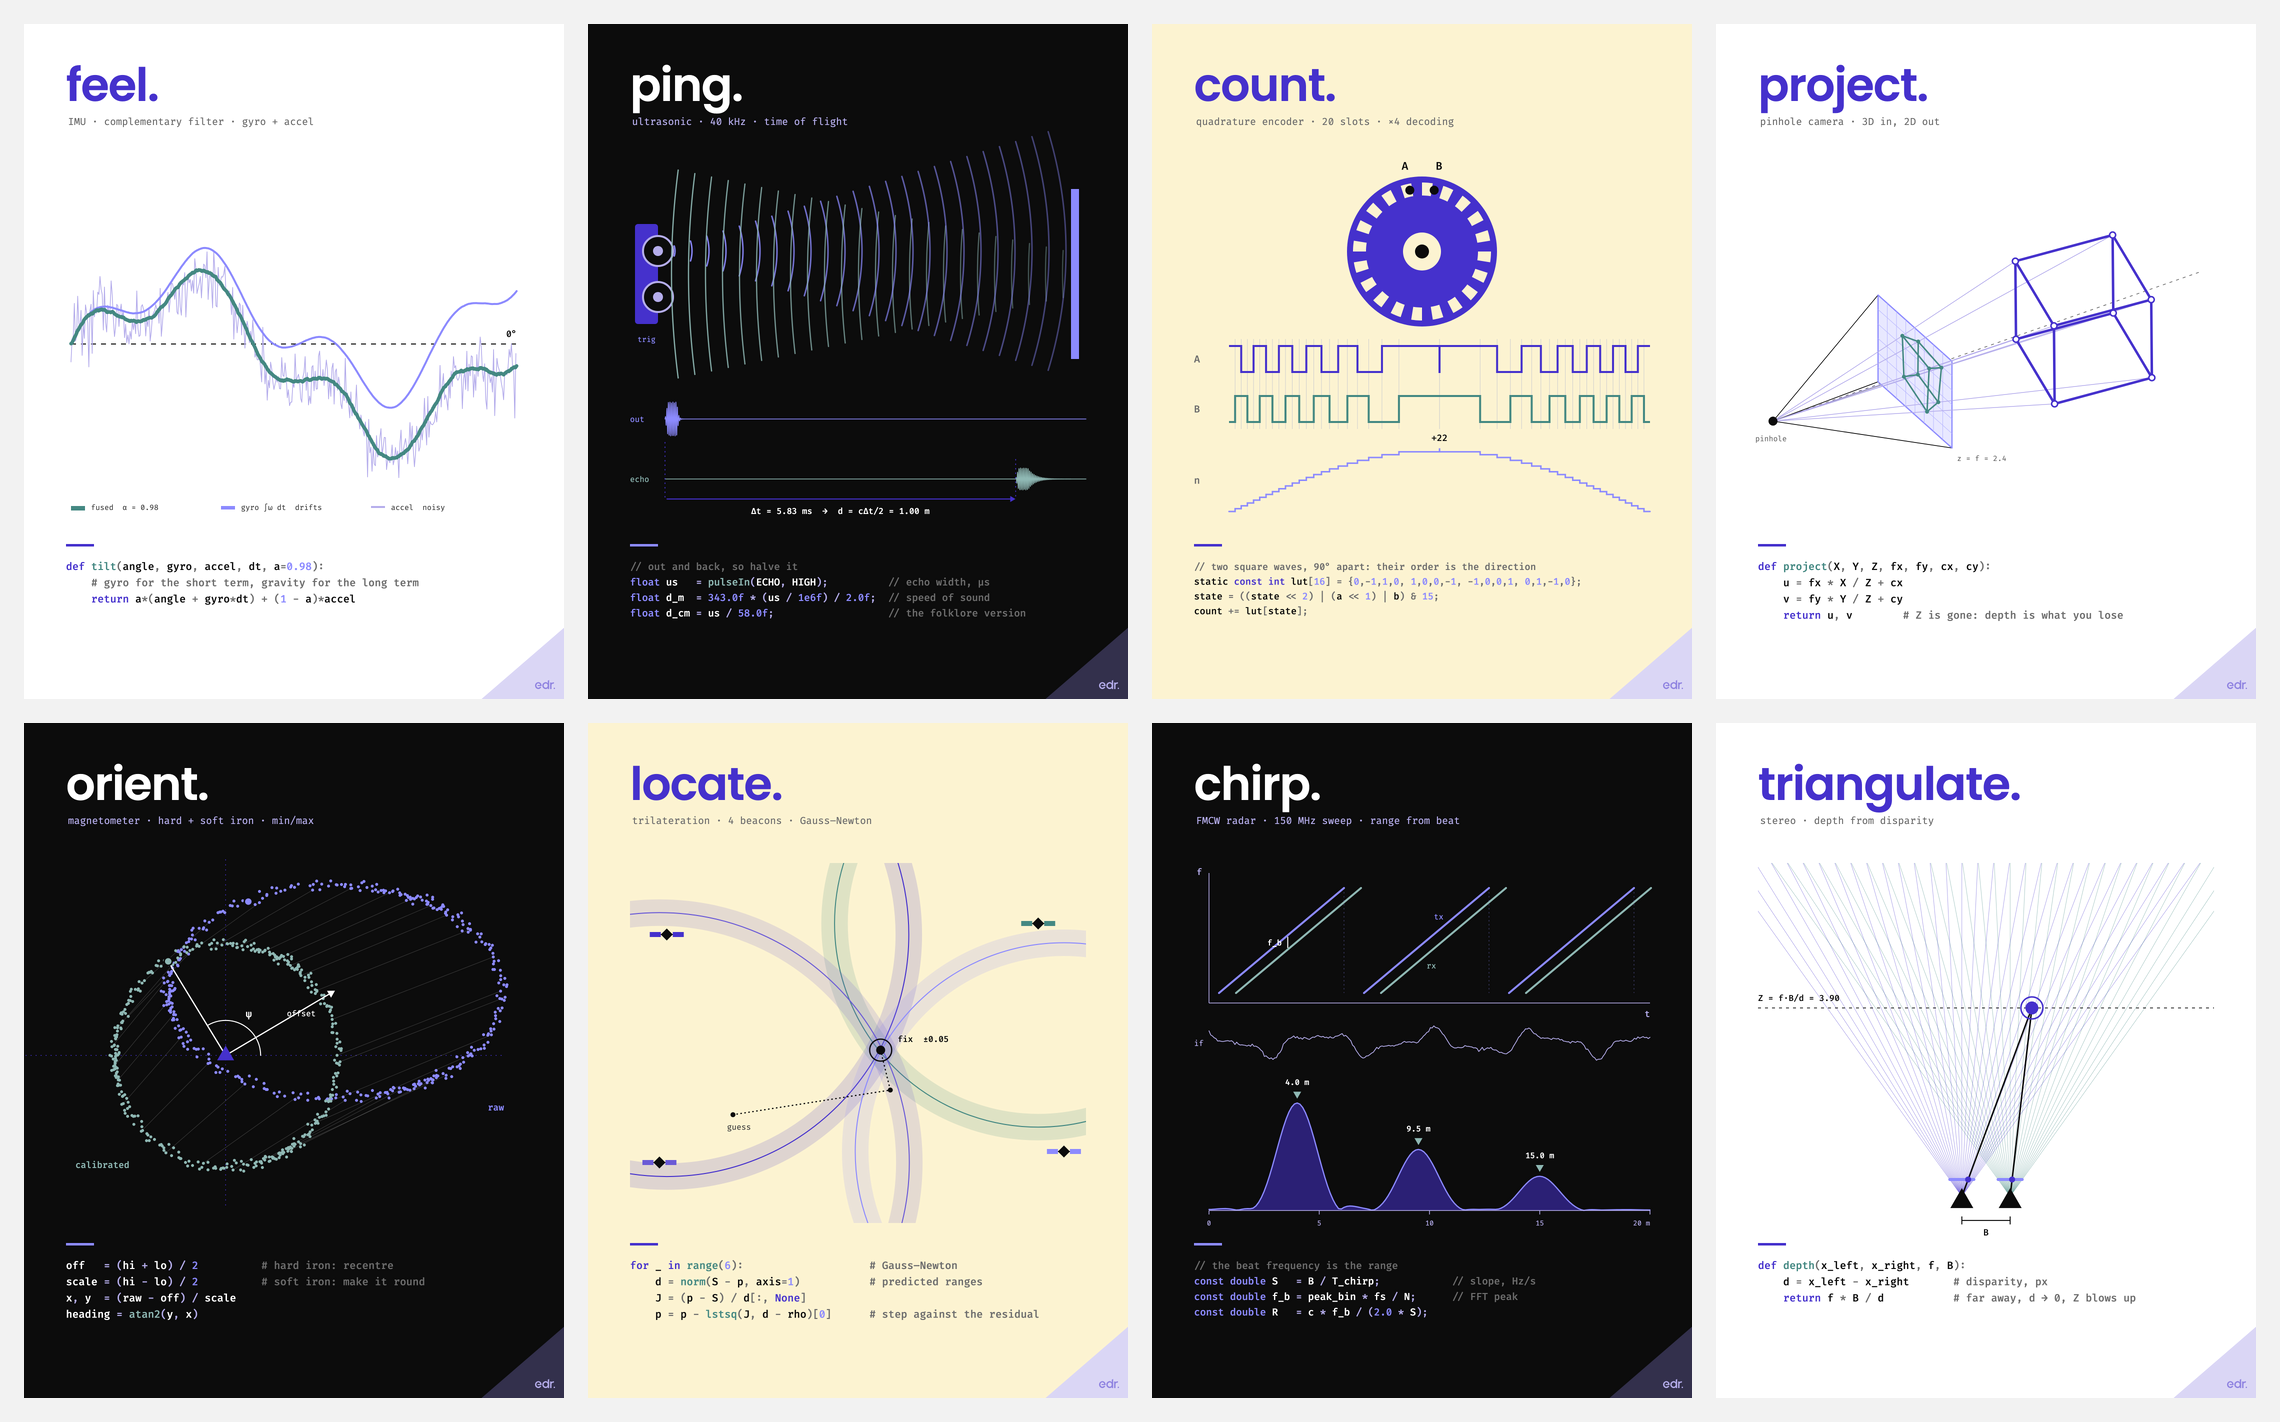
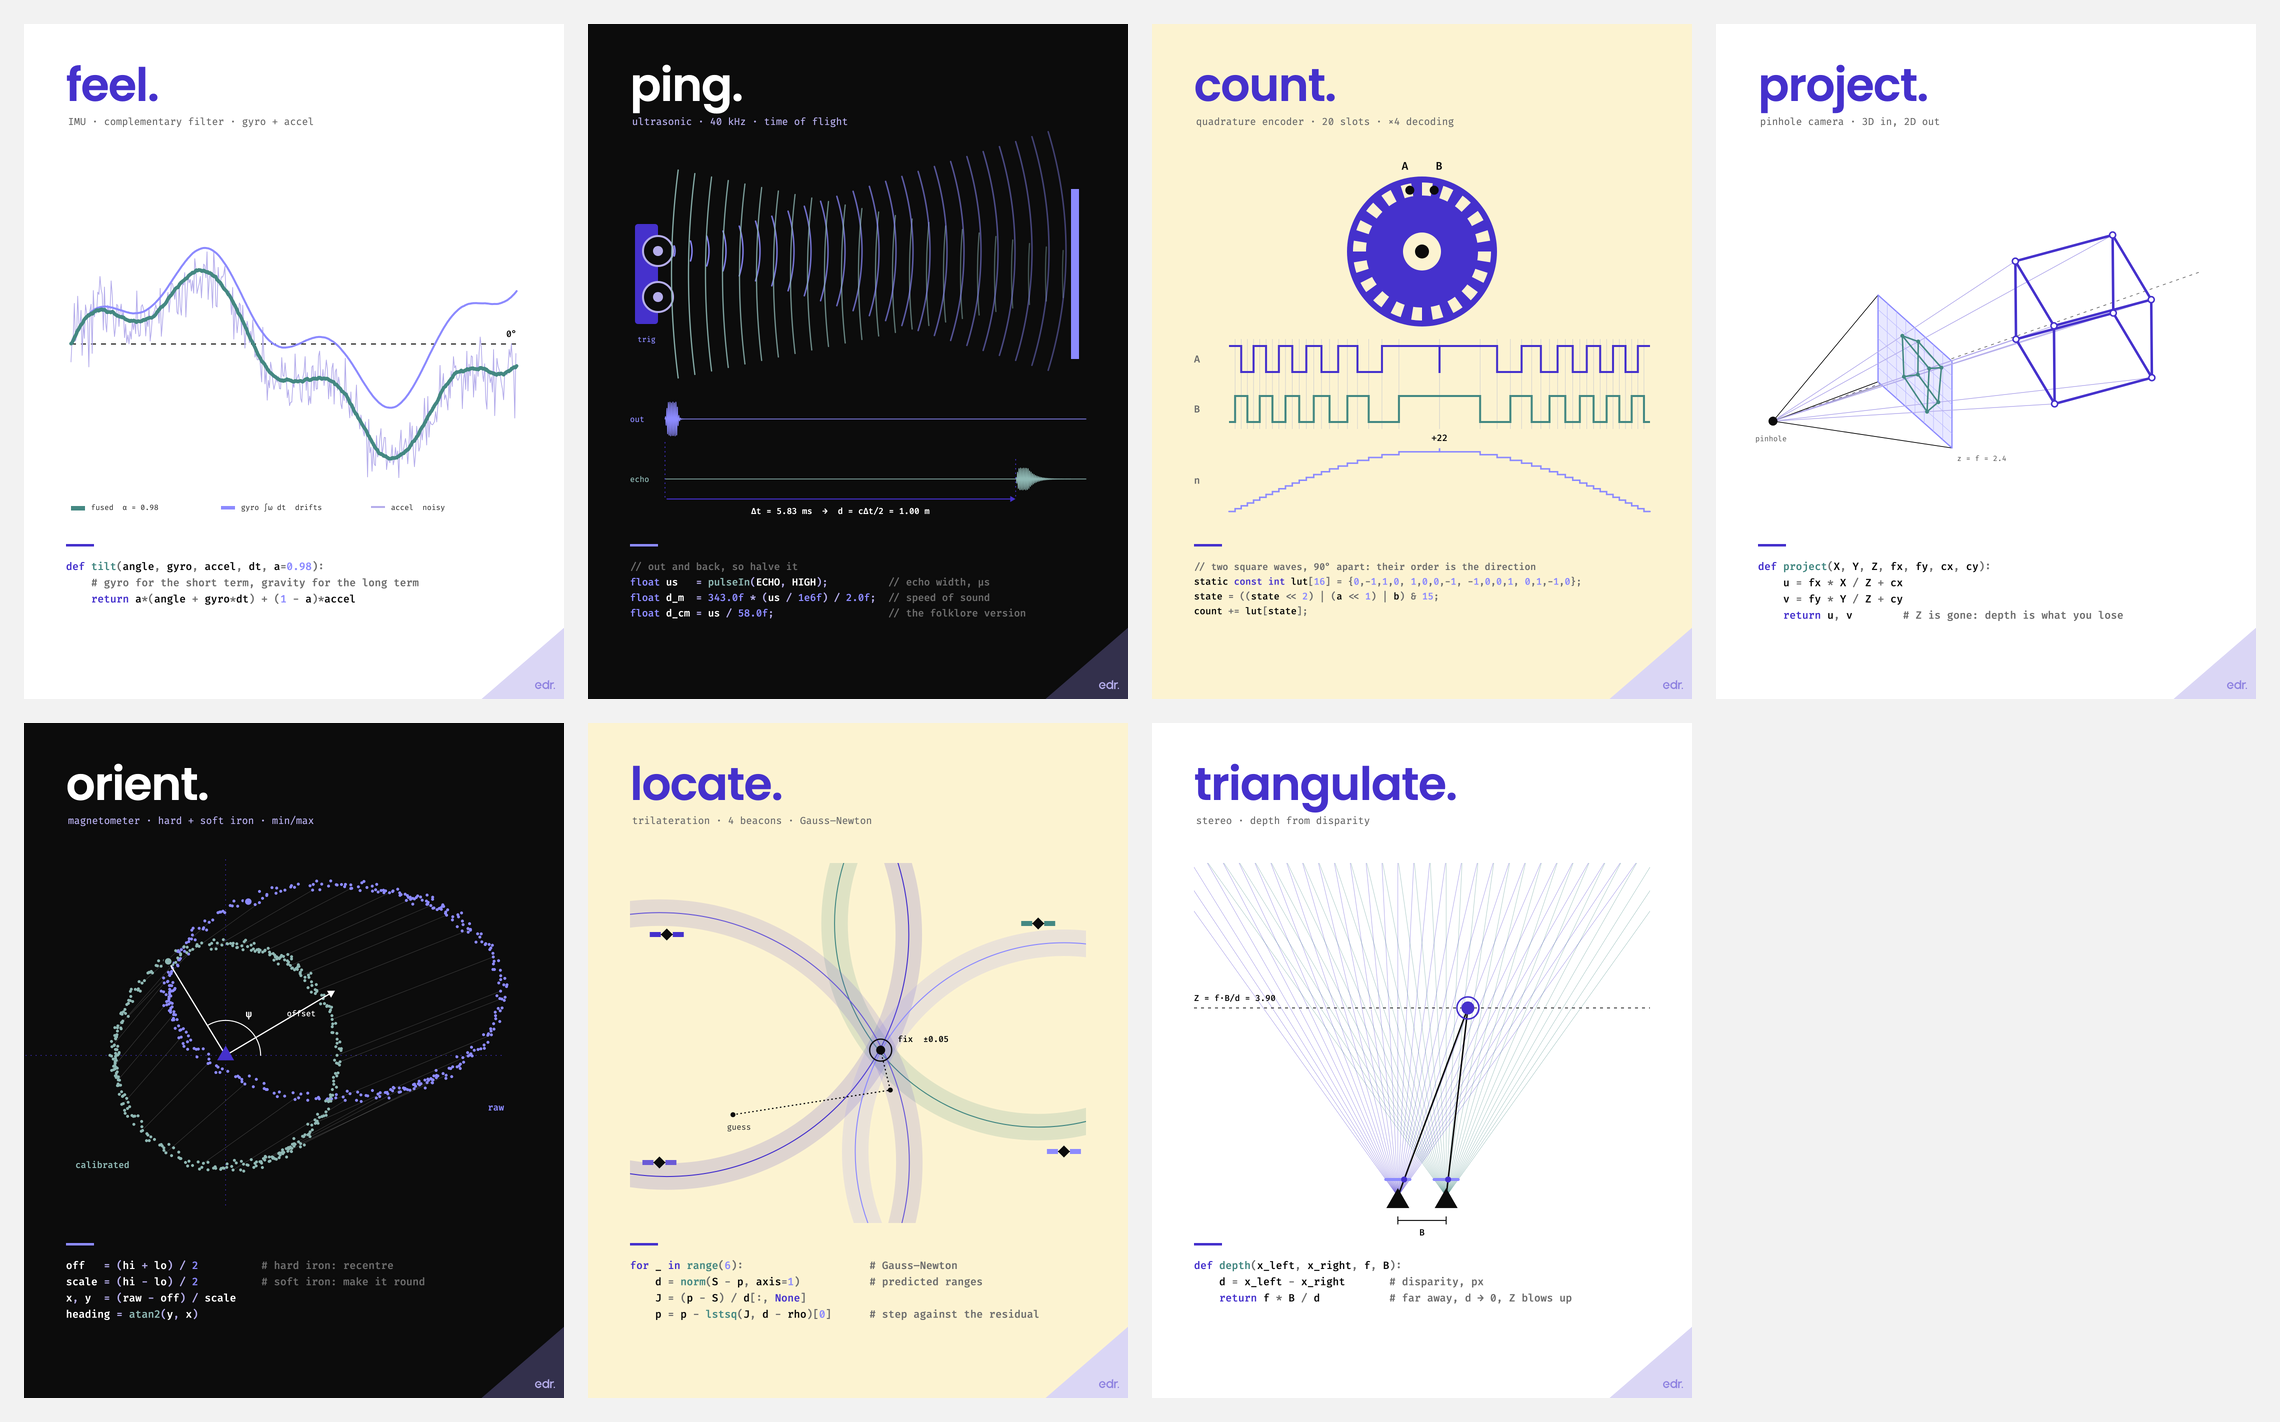
Remove chirp sensor poster, sync gallery
Drop the FMCW radar chirp poster from sensors, regenerate the
sensors overview, and update the gallery index (carve added,
hello moved to minimal, grid removed).

diff --git a/gallery/posters.js b/gallery/posters.js
@@ -31,16 +31,6 @@ window.POSTERS = [
   "svg": "../out/core/settle.svg"
  },
  {
-  "id": "core/hello",
-  "name": "hello",
-  "series": "core",
-  "group": "",
-  "idea": "Python vs C++ on a brand diagonal",
-  "thumb": "thumbs/core/hello.jpg",
-  "png": "../out/core/hello.png",
-  "svg": "../out/core/hello.svg"
- },
- {
   "id": "core/drive",
   "name": "drive",
   "series": "core",
@@ -79,6 +69,26 @@ window.POSTERS = [
   "thumb": "thumbs/core/assemble.jpg",
   "png": "../out/core/assemble.png",
   "svg": "../out/core/assemble.svg"
+ },
+ {
+  "id": "core/carve",
+  "name": "carve",
+  "series": "core",
+  "group": "",
+  "idea": "",
+  "thumb": "thumbs/core/carve.jpg",
+  "png": "../out/core/carve.png",
+  "svg": "../out/core/carve.svg"
+ },
+ {
+  "id": "minimal/hello",
+  "name": "hello",
+  "series": "minimal",
+  "group": "",
+  "idea": "Python vs C++ on a brand diagonal",
+  "thumb": "thumbs/minimal/hello.jpg",
+  "png": "../out/minimal/hello.png",
+  "svg": "../out/minimal/hello.svg"
  },
  {
   "id": "minimal/boot",
@@ -179,16 +189,6 @@ window.POSTERS = [
   "thumb": "thumbs/minimal/rotate.jpg",
   "png": "../out/minimal/rotate.png",
   "svg": "../out/minimal/rotate.svg"
- },
- {
-  "id": "minimal/grid",
-  "name": "grid",
-  "series": "minimal",
-  "group": "",
-  "idea": "an 8 × 8 occupancy grid: dots are free, squares are not, one robot",
-  "thumb": "thumbs/minimal/grid.jpg",
-  "png": "../out/minimal/grid.png",
-  "svg": "../out/minimal/grid.svg"
  },
  {
   "id": "minimal/think",
@@ -299,16 +299,6 @@ window.POSTERS = [
   "thumb": "thumbs/sensors/locate.jpg",
   "png": "../out/sensors/locate.png",
   "svg": "../out/sensors/locate.svg"
- },
- {
-  "id": "sensors/chirp",
-  "name": "chirp",
-  "series": "sensors",
-  "group": "",
-  "idea": "chirp + echo, the beat signal, and the FFT that turns it into ranges",
-  "thumb": "thumbs/sensors/chirp.jpg",
-  "png": "../out/sensors/chirp.png",
-  "svg": "../out/sensors/chirp.svg"
  },
  {
   "id": "sensors/triangulate",

diff --git a/src/sensors.py b/src/sensors.py
@@ -418,88 +418,6 @@ for _ in range(6):                    # Gauss–Newton
 
 
 # ----------------------------------------------------------------------------
-def chirp() -> Svg:
-    """FMCW radar: a chirp and its echo, the beat signal between them, and the FFT that turns it into ranges."""
-    svg = Svg(P.black)
-    rng = random.Random(2)
-    c0, B, Tc, N = 3e8, 150e6, 50e-6, 256
-    S = B / Tc
-    fs = N / Tc
-    targets = [(4.0, 1.0), (9.5, 0.55), (15.0, 0.32)]  # (range m, amplitude)
-    x = []
-    for n in range(N):
-        t = n / fs
-        v = sum(a * math.cos(2 * math.pi * (2 * R * S / c0) * t + i) for i, (R, a) in enumerate(targets))
-        x.append(v + rng.gauss(0, 0.08))
-
-    # --- schematic: frequency against time, echo delayed by τ (exaggerated) ---
-    x0, x1, yb, yt = M + 30, W - M, 540, 330
-    svg.line(x0, yb + 20, x1, yb + 20, P.blue_40, 1.5)
-    svg.line(x0, yb + 20, x0, yt - 30, P.blue_40, 1.5)
-    svg.text(x0 - 14, yt - 26, "f", "code", 18, P.blue_40, "end")
-    svg.text(x1, yb + 48, "t", "code", 18, P.blue_40, "end")
-    period, ramp, tau = 290, 250, 34
-    for k in range(3):
-        xs = x0 + 20 + k * period
-        svg.line(xs, yb, xs + ramp, yt, P.lavender, 4, stroke_linecap="round")
-        svg.line(xs + tau, yb, xs + tau + ramp, yt, P.teal_60, 4, stroke_linecap="round")
-        svg.line(xs + ramp, yt, xs + ramp, yb, P.lavender, 1.2, opacity="0.4", stroke_dasharray="3 5")
-    xm = x0 + 20 + ramp * 0.55
-    y_tx = yb + (yt - yb) * 0.55
-    y_rx = yb + (yt - yb) * (ramp * 0.55 - tau) / ramp
-    svg.line(xm, y_tx + 3, xm, y_rx - 3, P.white, 2)
-    svg.text(xm - 12, (y_tx + y_rx) / 2 + 6, "f_b", "code", 16, P.white, "end")
-    xs2 = x0 + 20 + period
-    svg.text(xs2 + ramp * 0.7 - 16, yb + (yt - yb) * 0.7, "tx", "codel", 16, P.lavender, "end")
-    svg.text(xs2 + tau + ramp * 0.3 + 16, yb + (yt - yb) * 0.3 + 14, "rx", "codel", 16, P.teal_60)
-
-    # --- the beat (IF) signal, as sampled ---
-    yi = 640
-    svg.text(M, yi + 6, "if", "codel", 16, P.blue_40)
-    svg.polyline([(x0 + (x1 - x0) * n / (N - 1), yi - 18 * v) for n, v in enumerate(x)], P.blue_40, 1.6)
-
-    # --- spectrum: Hann window, zero-padded DFT, range axis ---
-    w = [0.5 - 0.5 * math.cos(2 * math.pi * n / (N - 1)) for n in range(N)]
-    pad = 8
-    Rmax = 20.0
-    kmax = int(Rmax * 2 * S / c0 / (fs / (N * pad))) + 1
-    spec = []
-    for k in range(kmax + 1):
-        acc = sum(w[n] * x[n] * cmath.exp(-2j * math.pi * k * n / (N * pad)) for n in range(N))
-        fb = k * fs / (N * pad)
-        spec.append((c0 * fb / (2 * S), abs(acc)))
-    mx = max(m for _, m in spec)
-    y0s, y1s = 975, 760
-
-    def sp(R, m):
-        return x0 + (x1 - x0) * R / Rmax, y0s + (y1s - y0s) * m / mx
-
-    area = [sp(0, 0)] + [sp(R, m) for R, m in spec if R <= Rmax] + [sp(min(Rmax, spec[-1][0]), 0)]
-    svg.poly(area, P.blue, opacity="0.55")
-    svg.polyline([sp(R, m) for R, m in spec if R <= Rmax], P.lavender, 2.5)
-    svg.line(x0, y0s, x1, y0s, P.blue_40, 1.5)
-    for R in range(0, 21, 5):
-        xx = sp(R, 0)[0]
-        svg.line(xx, y0s, xx, y0s + 8, P.blue_40, 1.5)
-        svg.text(xx, y0s + 30, f"{R} m" if R == 20 else str(R), "codel", 14, P.blue_40, "middle" if R < 20 else "end")
-    peaks = [i for i in range(1, len(spec) - 1) if spec[i][1] > spec[i - 1][1] and spec[i][1] >= spec[i + 1][1] and spec[i][1] > 0.18 * mx]
-    for i in peaks:
-        R, m = spec[i]
-        px_, py_ = sp(R, m)
-        svg.triangle(px_, py_ - 18, 16, P.teal_60, math.pi / 2)
-        svg.text(px_, py_ - 36, f"{R:.1f} m", "code", 16, P.white, "middle")
-
-    svg.frame("chirp.", "FMCW radar · 150 MHz sweep · range from beat", dark=True, title_fill=P.white)
-    code_rule(svg, P.lavender)
-    svg.code(M, CODE_Y, """
-// the beat frequency is the range
-const double S   = B / T_chirp;            // slope, Hz/s
-const double f_b = peak_bin * fs / N;      // FFT peak
-const double R   = c * f_b / (2.0 * S);""", "cpp", 20, dark=True)
-    return svg
-
-
-# ----------------------------------------------------------------------------
 def triangulate() -> Svg:
     """Stereo depth: two cameras' pixel rays cross in a lattice whose cells grow with distance."""
     svg = Svg(P.white)
@@ -548,7 +466,7 @@ def depth(x_left, x_right, f, B):
     return svg
 
 
-SENSORS = [feel, ping, count, project, orient, locate, chirp, triangulate]
+SENSORS = [feel, ping, count, project, orient, locate, triangulate]
 
 if __name__ == "__main__":
     for fn in SENSORS:

diff --git a/README.md b/README.md
@@ -47,7 +47,6 @@ one line of code, two or three colours and a lot of empty paper.
 | project. | camera | pinhole model: a cube, its rays, and the picture left on the image plane |
 | orient. | magnetometer | raw ellipse recentred and rescaled into a circle (hard + soft iron) |
 | locate. | GNSS / beacons | range rings and Gauss–Newton walking from a guess to the fix |
-| chirp. | FMCW radar | chirp + echo, the beat signal, and the FFT that turns it into ranges |
 | triangulate. | stereo camera | pixel rays from two cameras cross in a lattice that coarsens with depth |
 
 **Robots** (`src/robots.py`, one folder per kind of robot in `out/robots/`). Each robot type gets three posters, each on something that makes it hard:
